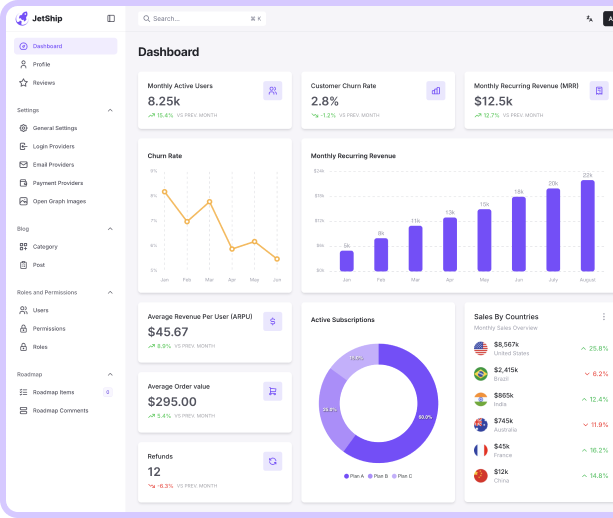
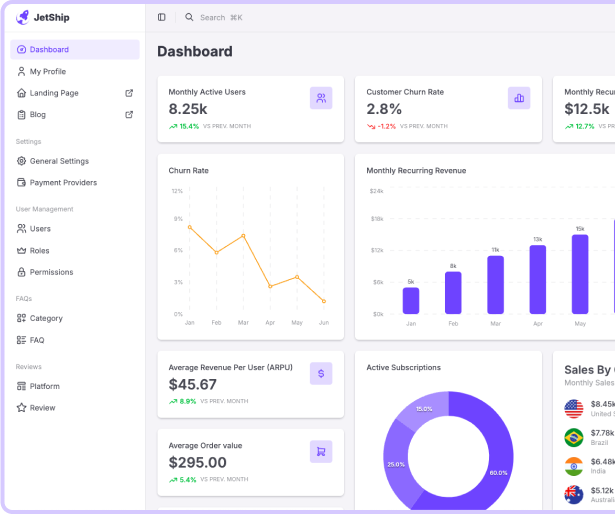
refactor(images): update images

diff --git a/packages/ui/src/blocks/hero/HeroHorizontalImage.tsx b/packages/ui/src/blocks/hero/HeroHorizontalImage.tsx
@@ -10,7 +10,6 @@ import { Ratings } from '@repo/ui/components/ui/ratings'
 import { MotionElement, MotionFadeElement } from '@repo/ui/components/ui/motion-element'
 import AvatarGroup from '@repo/ui/components/ui/avatar-group'
 import RainbowButton from '@repo/ui/components/ui/rainbow-button'
-import Image from '@repo/ui/components/Image'
 
 // Util Imports
 import { cn } from '@repo/ui/lib/utils'
@@ -103,11 +102,7 @@ const HeroHorizontalImage = () => {
           }}
           className='mli-auto lg:mli-0 plb-4 md:plb-8 lg:plb-32 bg-cover bg-center bg-no-repeat [background-image:url(/images/blocks/hero/hero-v1-shape.png)] max-xl:!bg-none'
         >
-          <Image
-            srcLight='/images/blocks/hero/hero-banner-v1-light.png'
-            srcDark='/images/blocks/hero/hero-banner-v1-light.png'
-            className='is-full'
-          />
+          <img src='/images/blocks/hero/hero-dashboard-v1.png' className='is-full' />
         </MotionElement>
       </div>
     </section>

diff --git a/packages/ui/src/blocks/hero/HeroHorizontalHalfImage.tsx b/packages/ui/src/blocks/hero/HeroHorizontalHalfImage.tsx
@@ -211,8 +211,8 @@ const HeroHorizontalHalfImage = () => {
         </div>
         <div className='md:mbs-12 max-is-xl mli-auto relative lg:hidden'>
           <Image
-            srcLight='/images/blocks/hero/hero-dashboard-v1-light.png'
-            srcDark='/images/blocks/hero/hero-dashboard-v1-dark.png'
+            srcLight='/images/blocks/hero/hero-dashboard-v2-light.png'
+            srcDark='/images/blocks/hero/hero-dashboard-v2-dark.png'
           />
           <MotionElement
             component='div'
